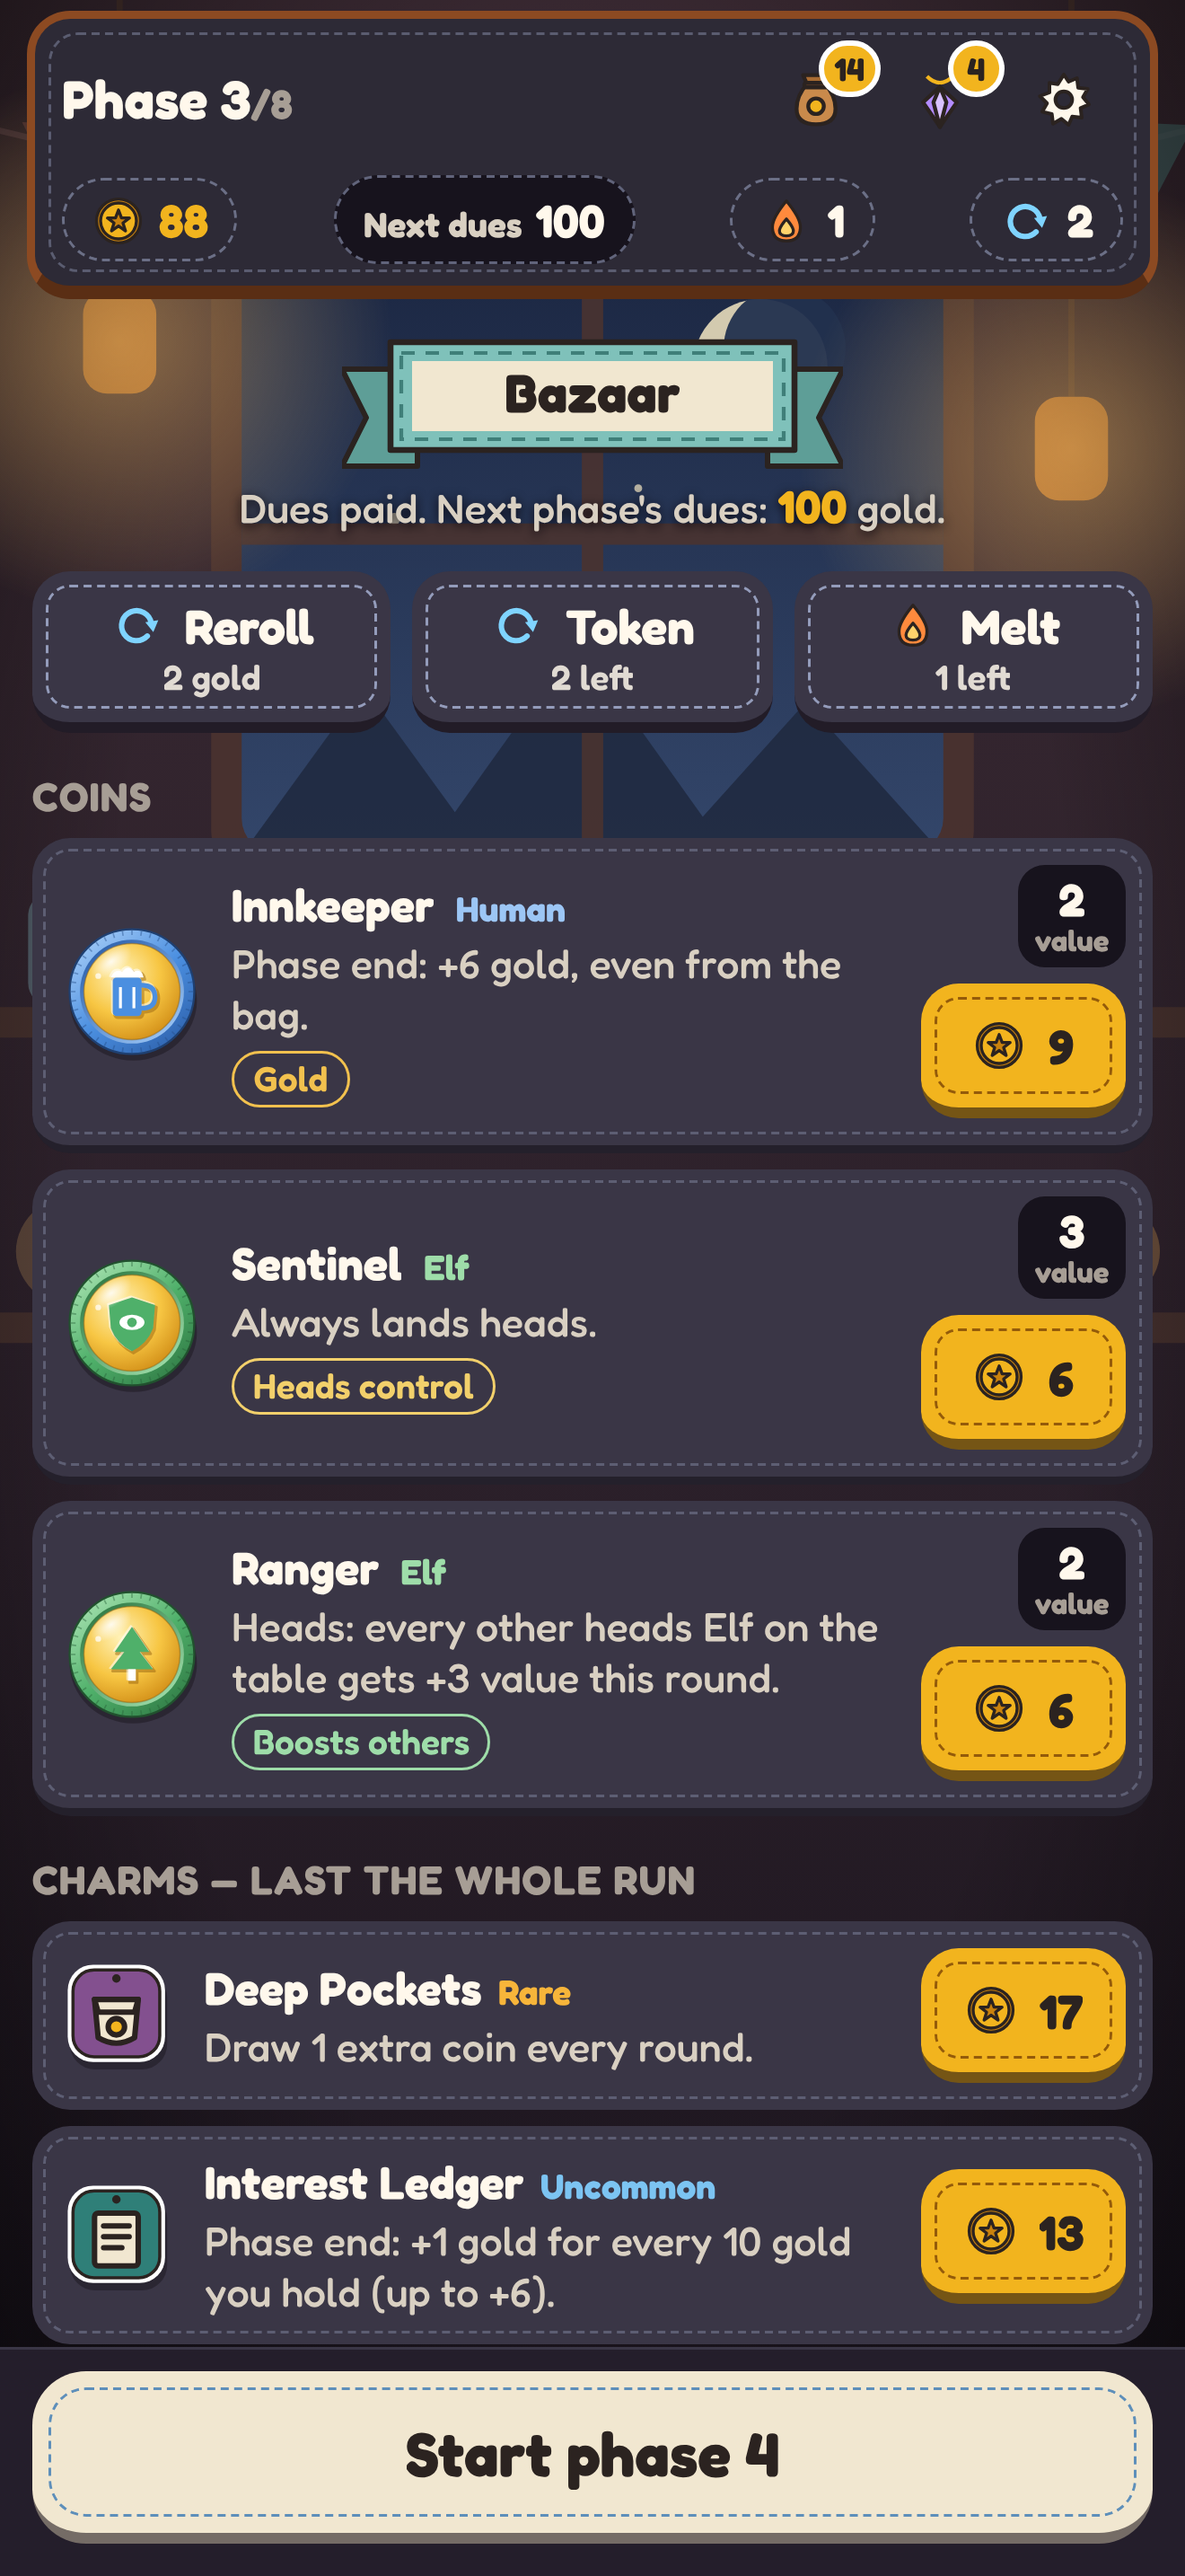
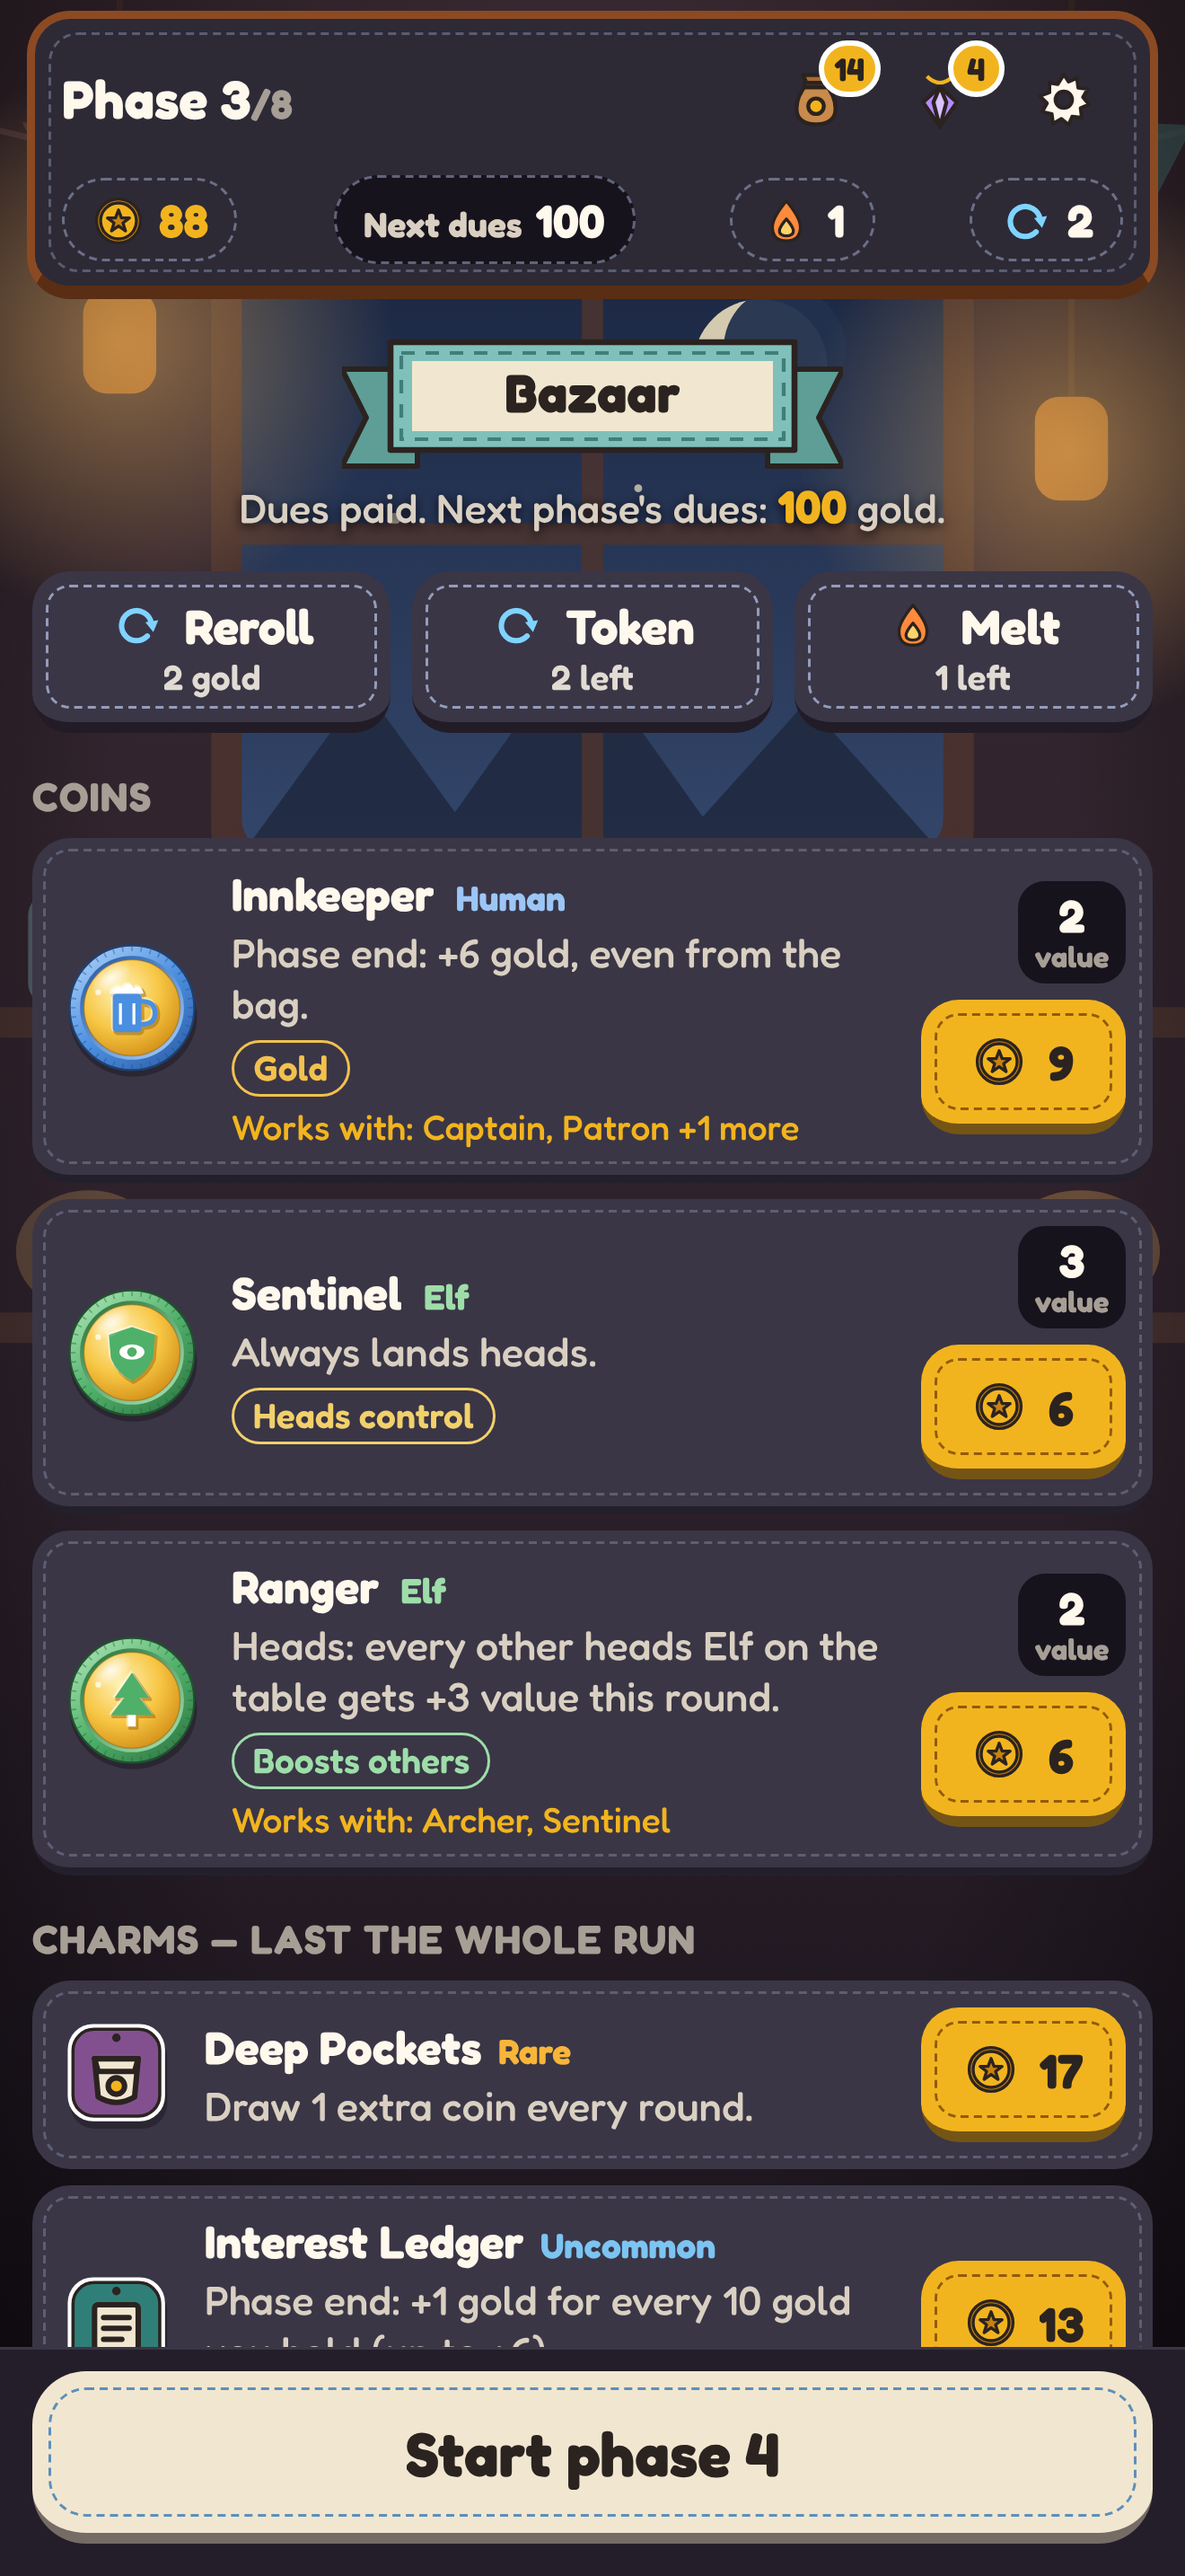
Store screenshots: retake with combo rings, Charm and Engraving art
Claude-Session: https://claude.ai/code/session_01Lnnh2U4rFtJE6PRT1vts3s

diff --git a/APP_STORE.md b/APP_STORE.md
@@ -79,7 +79,7 @@ Apple computes the final rating. With Simulated Gambling = Infrequent/Mild, expe
 
 Use real gameplay, not only the title screen. Draft 6.9" screenshots (1320×2868) generated from the build are in `store/screenshots/`:
 
-1. `3-round-in-play.png` — **lead image**: a mixed table mid-round with the "All three races!" combo callout, value pop-ups and the ability text under the caption.
+1. `3-round-in-play.png` — **lead image**: a mixed table mid-round with the "All three races!" combo callout ringing one coin of each race, value pop-ups and the ability text under the caption.
 2. `4-pick-a-coin.png` — the round result and the "Add a coin to your bag" choice, with synergy tags on each coin.
 3. `5-bazaar.png` — the Bazaar with coins and Charms (each with its own art) for sale.
 4. `2-choose-patron.png` — choosing a starting race Charm.
